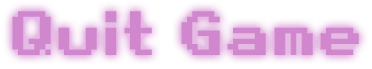
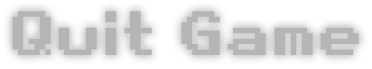
Updated some assets and created a story to go with the new visual style.

diff --git a/IGME-106-Group-Game/UI/Assets.cs b/IGME-106-Group-Game/UI/Assets.cs
@@ -78,6 +78,7 @@ namespace IGME106GroupGame.UI
             // Game Objects Textures
             textures.Add("base", game.Content.Load<Texture2D>("base"));
             textures.Add("ninja", game.Content.Load<Texture2D>("gameObjects\\ninja"));
+            textures.Add("meleeNinja", game.Content.Load<Texture2D>("gameObjects\\meleeNinja"));
             textures.Add("slimeBot", game.Content.Load<Texture2D>("gameObjects\\slimeBot"));
             textures.Add("player", game.Content.Load<Texture2D>("gameObjects\\player"));
             textures.Add("enemyStar", game.Content.Load<Texture2D>("gameObjects\\enemyStar"));

diff --git a/IGME-106-Group-Game/GameObjects/GameObjectHandler.cs b/IGME-106-Group-Game/GameObjects/GameObjectHandler.cs
@@ -140,7 +140,7 @@ namespace IGME106GroupGame.States
                 // 50-50 chance of melee being ninja or slimebot
                 else if (rng.Next(0, 2) == 0)
                 {
-                    gameObjects.Add(new MeleeEnemy(assets.Get("ninja"), randomPosition, player));
+                    gameObjects.Add(new MeleeEnemy(assets.Get("meleeNinja"), randomPosition, player));
                 }
                 else
                 {

diff --git a/IGME-106-Group-Game/UI/UserInterface.cs b/IGME-106-Group-Game/UI/UserInterface.cs
@@ -51,7 +51,7 @@ namespace IGME106GroupGame.UI
             {
                 if (button.ContainsPoint(mouseManager.Position))
                 {
-                    button.Tint = Color.Cyan;
+                    button.Tint = new Color(0xff88fb);
                     mouseManager.CurrentUser = button;
                 }
                 else
